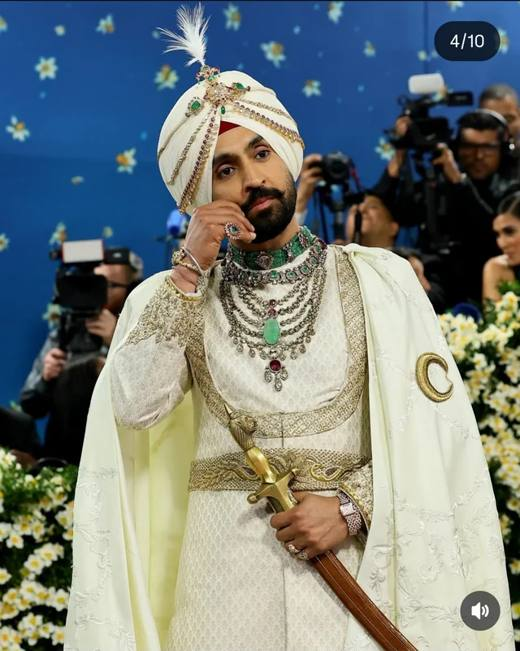
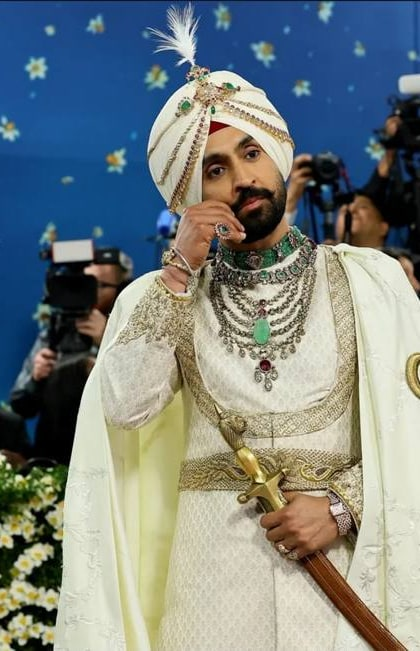
fix(app): v4 walk follow-ups
'nothing, really' answer on what turned you off; You's other-traditions row reads the same setting Today uses; reminders say evening/7 pm (and say they're not switched on when there's no server); readable order/pairs feedback; START · DAY N bubble on one line; camp card title spacing; Diljit app photo cropped clear of the 4/10 badge.

diff --git a/apps/app/src/app/(tabs)/you/index.tsx b/apps/app/src/app/(tabs)/you/index.tsx
@@ -105,7 +105,7 @@ export default function You() {
             ) : null}
             {/* Always shown, so someone who skipped the questions can still keep other traditions away. */}
             {(() => {
-              const prof = st.profile?.door === wing ? st.profile : emptyProfile(wing, today);
+              const prof = st.profile ?? emptyProfile(wing, today); // same setting Today reads, whichever door
               return (
                 <Row a="other traditions" b={`${{ stay: "stay on my path — never bring them up", sometimes: "now and then, a similar idea from another tradition", love: "show me similar ideas from other traditions" }[prof.openness]} · tap to change`}
                   right={{ stay: "off", sometimes: "sometimes", love: "often" }[prof.openness]}
@@ -114,7 +114,7 @@ export default function You() {
             })()}
           </Group>
           <Group title="every day">
-            <Row testID="row-reminders" a="reminders" b="one a day, at sundown or your time" right={reminderStatus(st.reminder.on)} onPress={() => router.push("/you/reminders")} />
+            <Row testID="row-reminders" a="reminders" b="one a day, in the evening or at your time" right={reminderStatus(st.reminder.on)} onPress={() => router.push("/you/reminders")} />
             <Row a="read aloud" b="the house voice reads the lessons" toggle={st.voiceOn} onPress={() => update({ voiceOn: !st.voiceOn })} />
             <Row a="sunset chime" b="the bell at the start and end of each sit" toggle={st.chime} onPress={() => update({ chime: !st.chime })} />
           </Group>
@@ -132,7 +132,7 @@ export default function You() {
 
           <Card>
             <Eyebrow>how the sun talks to you</Eyebrow>
-            <Text style={[type.body(12.5), { color: color.mute, marginTop: 6 }]}>one a day, at sunset. never a guilt trip. never red.</Text>
+            <Text style={[type.body(12.5), { color: color.mute, marginTop: 6 }]}>one a day, in the evening. never a guilt trip. never red.</Text>
             <View style={{ gap: 8, marginTop: 12 }}>
               {SUN_NOTES(wing, ic.short, (data.DAY1[wing] || data.DAY1.SPIRITUAL).word).map(([t, m]: [string, string]) => (
                 <View key={t} style={{ backgroundColor: "#F2F2EC", borderRadius: 14, paddingVertical: 10, paddingHorizontal: 12, flexDirection: "row", gap: 10 }}>

diff --git a/apps/app/src/app/done/remind.tsx b/apps/app/src/app/done/remind.tsx
@@ -20,13 +20,13 @@ export default function Remind() {
   };
   return (
     <Screen close={close} footer={<>
-        {support.can ? <Btn testID="remind-on" onPress={turnOn}>remind me at sunset</Btn> : null}
+        {support.can ? <Btn testID="remind-on" onPress={turnOn}>remind me in the evening</Btn> : null}
         <Btn testID="remind-later" kind="ghost" onPress={close}>not now</Btn>
       </>}>
       <View style={{ flex: 1, justifyContent: "center", gap: 16 }}>
-        <View style={{ flexDirection: "row", gap: 14, alignItems: "flex-start" }}><Guy pose="phone" h={92} /><Bubble>i'll find you at sunset. once a day. no nagging — and never on a day you've already sat.</Bubble></View>
-        <Text accessibilityRole="header" style={type.title()}>the sun, at sunset.</Text>
-        <Text style={[type.body(13), { color: color.mute }]}>one reminder a day, at sundown (or a time you pick in you, then reminders). it never turns red. it never guilts you.</Text>
+        <View style={{ flexDirection: "row", gap: 14, alignItems: "flex-start" }}><Guy pose="phone" h={92} /><Bubble>i'll find you in the evening. once a day. no nagging — and never on a day you've already sat.</Bubble></View>
+        <Text accessibilityRole="header" style={type.title()}>the sun, in the evening.</Text>
+        <Text style={[type.body(13), { color: color.mute }]}>one reminder a day, at 7 pm (or a time you pick in you, then reminders). it never turns red. it never guilts you.</Text>
         {needsInstallCoach() ? <InstallCoach /> : support.note ? <Text style={[type.body(12), { color: color.mute }]}>{support.note}</Text> : null}
         {msg ? <Text accessibilityLiveRegion="polite" style={[type.body(14), { color: color.ink }]}>{msg}</Text> : null}
       </View>

diff --git a/apps/app/src/content/intake.ts b/apps/app/src/content/intake.ts
@@ -9,7 +9,7 @@ export const CONTENT_STATUS = "draft-unreviewed" as const;
 export const PERSON: Record<string, string> = { CHRISTIANITY: "Christian", CATHOLIC: "Catholic", HINDUISM: "Hindu", ISLAM: "Muslim", JUDAISM: "Jewish", BUDDHISM: "Buddhist", SIKHISM: "Sikh" };
 
 /** Answers that stand alone in a multi-choice question: picking one clears the rest. */
-export const EXCLUSIVE = new Set(["nothing"]);
+export const EXCLUSIVE = new Set(["nothing", "none"]);
 
 export type Choice = { id: string; label: string };
 export type Question = {
@@ -70,7 +70,7 @@ export const INTAKE: Record<string, Question> = {
   turnedOff: { id: "turnedOff", ask: "What turned you off, if anything?", multi: true, optional: true, choices: [
     { id: "rules", label: "the rules" }, { id: "judged", label: "feeling judged" }, { id: "hypocrisy", label: "the hypocrisy" },
     { id: "believe", label: "I didn't believe it" }, { id: "rote", label: "it felt rote" }, { id: "politics", label: "the politics" },
-    { id: "hurt", label: "something that happened" },
+    { id: "hurt", label: "something that happened" }, { id: "none", label: "nothing, really" },
   ] },
   loved: { id: "loved", ask: "Was there anything you loved about it?", multi: true, optional: true, choices: [
     { id: "music", label: "the music" }, { id: "ritual", label: "the rituals" }, { id: "community", label: "the people" },

diff --git a/apps/app/src/session/steps.tsx b/apps/app/src/session/steps.tsx
@@ -92,7 +92,7 @@ export function OrderStep({ step, onDone }: { step: any; onDone: Done }) {
       </View>
       {result !== null ? (
         <View style={{ gap: 10, marginBottom: 6 }}>
-          <Text accessibilityLiveRegion="polite" style={[s.feedback, { color: result ? color.gold : "#ffffffcc" }]}>
+          <Text accessibilityLiveRegion="polite" style={[s.feedback, { color: color.ink }]}>
             {result ? data.NICE[step.items.length % data.NICE.length] : `not quite. it goes: ${step.items.map((v: string, k: number) => `${k + 1}. ${v}`).join("  ")}`}
           </Text>
           <SlotFill><Btn kind="gold" onPress={() => onDone(result)}>next</Btn></SlotFill>
@@ -140,7 +140,7 @@ export function MatchStep({ step, onDone }: { step: any; onDone: Done }) {
         <View style={{ flex: 1, gap: 10 }}>{left.map((l) => chip(l, sel === l, !!got[l], () => { setNope(null); setSel(l); }))}</View>
         <View style={{ flex: 1, gap: 10 }}>{right.map((r) => chip(r, false, Object.values(got).includes(r), () => sel && tryPair(sel, r)))}</View>
       </View>
-      {nope ? <Text accessibilityLiveRegion="polite" style={[s.feedback, { color: "#ffffffcc", textAlign: "center" }]}>{nope}</Text> : null}
+      {nope ? <Text accessibilityLiveRegion="polite" style={[s.feedback, { color: color.ink, textAlign: "center" }]}>{nope}</Text> : null}
     </View>
   );
 }

diff --git a/apps/app/src/ui/hill.tsx b/apps/app/src/ui/hill.tsx
@@ -167,7 +167,7 @@ export function HillScene({ hour, done, total, words, doneToday, onStart, onRepl
             {s === "now" ? (
               <Animated.View pointerEvents="box-none" style={[{ position: "absolute", bottom: size * 0.55 + 10, alignItems: "center" }, bobStyle]}>
                 <Pressable onPress={onStart} accessibilityElementsHidden importantForAccessibility="no-hide-descendants" style={{ backgroundColor: "#fff", borderRadius: 14, borderWidth: 2, borderColor: color.ink, paddingVertical: 7, paddingHorizontal: 12, alignItems: "center" }}>
-                  <Text style={{ fontFamily: font.text[700], fontSize: 11, letterSpacing: 1.2, color: color.ink }}>{done === 0 ? "START" : `START · DAY ${firstLesson + i}`}</Text>
+                  <Text numberOfLines={1} style={{ fontFamily: font.text[700], fontSize: 11, letterSpacing: 1.2, color: color.ink, minWidth: done === 0 ? undefined : 104, textAlign: "center" }}>{done === 0 ? "START" : `START · DAY ${firstLesson + i}`}</Text>
                 </Pressable>
                 <View style={{ width: 12, height: 12, backgroundColor: "#fff", borderRightWidth: 2, borderBottomWidth: 2, borderColor: color.ink, transform: [{ rotate: "45deg" }], marginTop: -7 }} />
               </Animated.View>

diff --git a/apps/app/src/app/(tabs)/today.tsx b/apps/app/src/app/(tabs)/today.tsx
@@ -99,7 +99,7 @@ export default function Today() {
         })()}
 
         <View style={s.campCard}>
-          <View style={{ flex: 1 }}>
+          <View style={{ flex: 1, paddingRight: 12 }}>
             <Text style={[type.eyebrow(8), { color: color.gold }]}>{p.camp} · {p.name}</Text>
             <Text style={{ fontFamily: font.display[800], fontSize: 18, marginTop: 4, color: "#fff" }}>{title}</Text>
             {derived.goal ? <Text style={[type.eyebrow(8), { color: "#ffffff99", marginTop: 6 }]}>your goal · {derived.goal.done} of {derived.goal.days} days shown up{derived.goal.reached ? " · reached" : ""}</Text> : null}

diff --git a/apps/app/src/lib/reminders.ts b/apps/app/src/lib/reminders.ts
@@ -73,6 +73,7 @@ export async function syncReminders(store: StoreLike) {
 }
 
 export async function enableReminders(store: StoreLike) {
+  if (!FN) return { ok: false, message: "reminders aren't switched on in this version yet." };
   const s = reminderSupport();
   if (!s.can) return { ok: false, message: s.note! };
   const N = (window as any).Notification;
